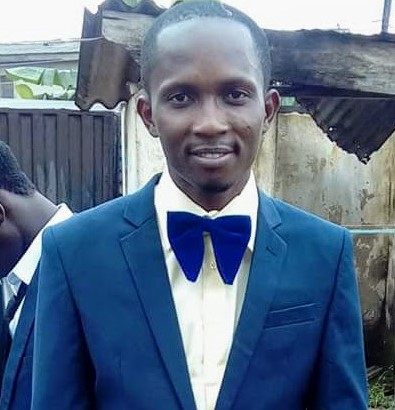
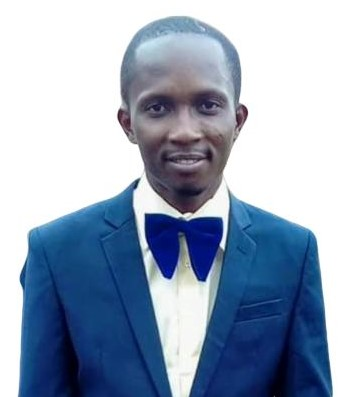
corrected image in team

diff --git a/Team.html b/Team.html
@@ -90,10 +90,10 @@
                 </div>
                 <div class="col-sm-6 col-xl-12 item">
                     <div class="row">
-                        <div class="col-md-12 col-lg-5 col-xl-4"><img class="img-fluid shadow" src="assets/img/IMG-20200208WA0035.jpg?h=cfcd747d540583b0bfec4c1e41b35ac7" style="height: 300px;padding-left: 50px;"></div>
+                        <div class="col-md-12 col-lg-5 col-xl-4 offset-xl-0"><img class="img-fluid shadow" src="assets/img/IMG-20200208WA0035.jpg?h=70abbda73e88be4e419f2569c62791b3" style="padding-left: 50px;height: 320px;"></div>
                         <div class="col">
                             <h3 class="name" style="font-family: 'Century Gothic';">Adewale Kudaisi</h3>
-                            <h3 class="name" style="font-family: 'Century Gothic';font-size: 16px;">Project Manager/PRO</h3>
+                            <h3 class="name" style="font-family: 'Century Gothic';font-size: 16px;">Project Manager</h3>
                             <p class="text-left text-dark bg-light shadow-lg description" style="font-family: 'Century Gothic';padding: 5px;">Adewale is coordinating supervisor of all projects handled by the organization. <br><br>He is an accountant by training but his passion for real estate made him rise fast in the organization within a short period of time.<br><br>Wale
                                 also oversees the marketing and public relation functions of the organization.<br></p>
                         </div>
